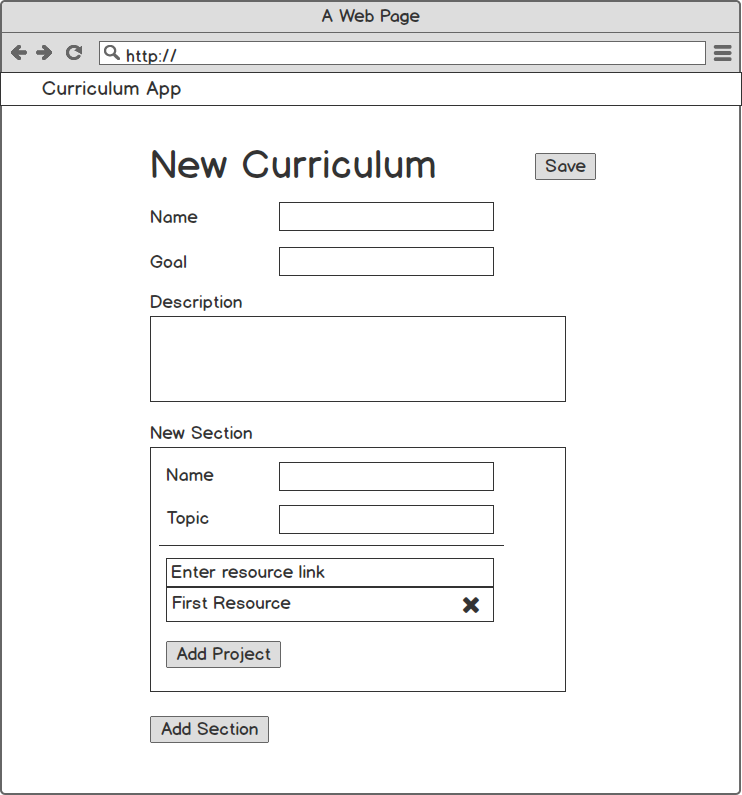
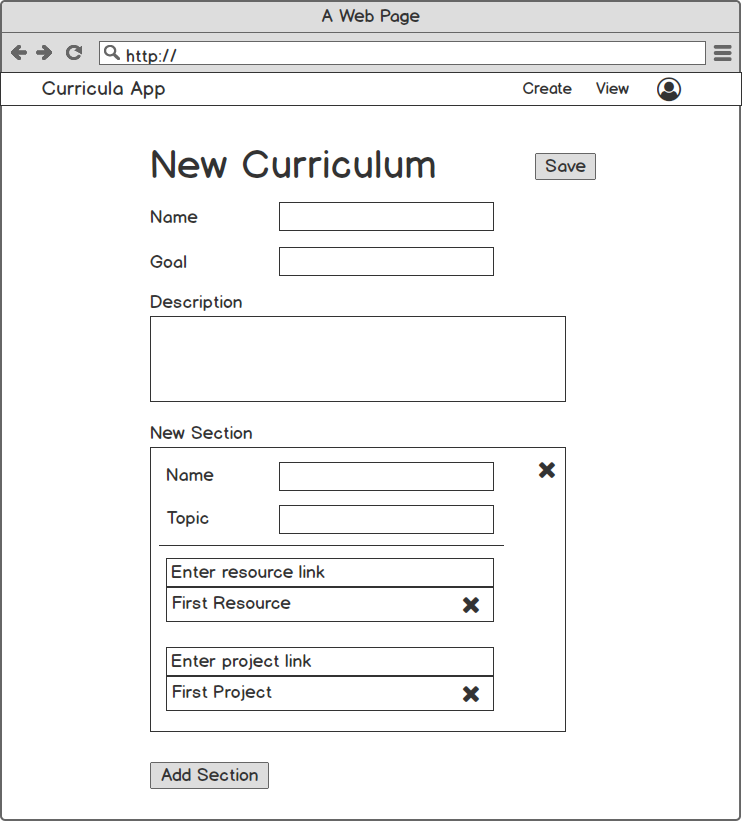
updated project mockups and readme

diff --git a/README.md b/README.md
@@ -39,6 +39,10 @@ To see the playlist where I livestream the building of this app, [click here](ht
 </p>
 
 <p align="center">
+  <img src="https://github.com/gwenf/curriculum-app/blob/master/User%20Dashboard.png" alt="User Dashboard Mockup">
+</p>
+
+<p align="center">
   <img src="https://github.com/gwenf/curriculum-app/blob/master/Create_update%20curriculum.png" alt="Create or Update Page Mockup">
 </p>
 
